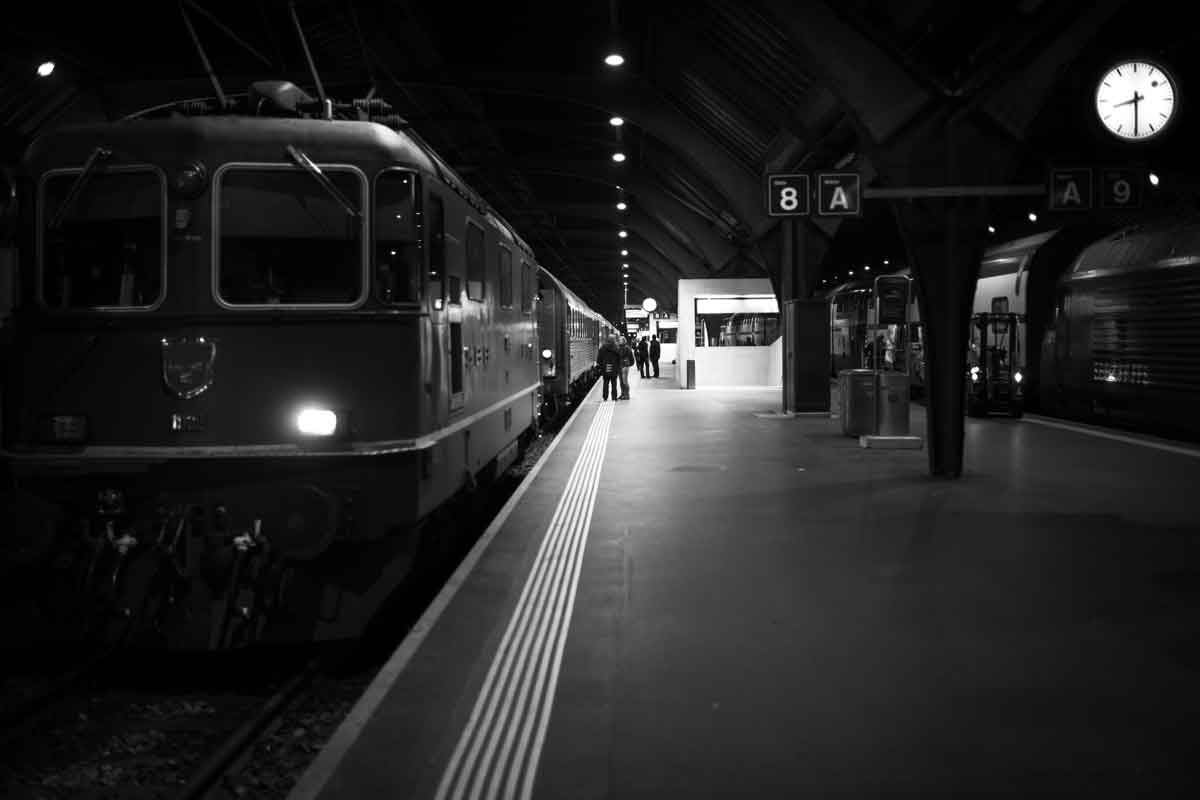
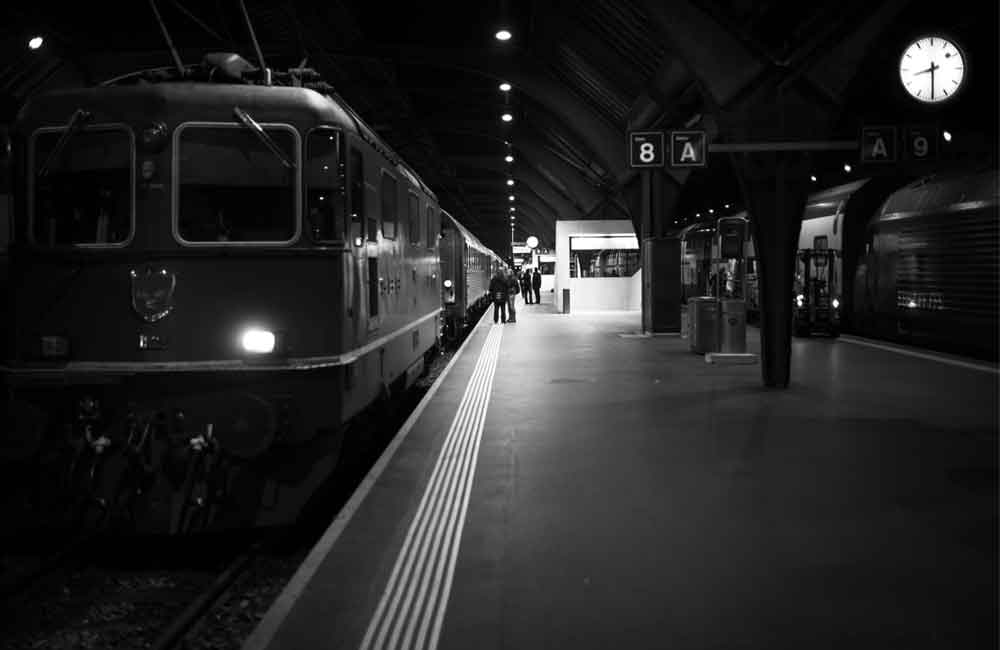
Home page images made smaller

diff --git a/sign-up.html b/sign-up.html
@@ -66,7 +66,7 @@
 
       <div>
         <label for="pass">Password</label>
-        <input  type="password" id="pass" name="password" required>
+        <input type="password" id="pass" name="password" required>
       </div>
 
       <div>
@@ -80,12 +80,12 @@
 
       <div>
         <label for="cc_first">First Name</label>
-        <input text="text" id="cc_first" name="cc_first">
+        <input type="text" id="cc_first" name="cc_first">
       </div>
 
       <div>
         <label for="cc_last">Last Name</label>
-        <input text="text" id="cc_last" name="cc_last">
+        <input type="text" id="cc_last" name="cc_last">
       </div>
       <div>
         <label for="card">Credit Card Number</label>
@@ -116,32 +116,32 @@
 
       <div>
         <label for="billing">Billing Address</label>
-        <input text="text" id="billing" name="billing">
+        <input type="text" id="billing" name="billing">
       </div>
 
       <div>
         <label for="billing-2">Billing Address 2 (optional)</label>
-        <input text="text" id="billing-2" name="billing-2">
+        <input type="text" id="billing-2" name="billing-2">
       </div>
 
       <div>
         <label for="city">City</label>
-        <input text="text" id="city" name="city">
+        <input type="text" id="city" name="city">
       </div>
 
       <div>
         <label for="province">Province/State</label>
-        <input text="text" id="province" name="province">
+        <input type="text" id="province" name="province">
       </div>
 
       <div>
         <label for="country">Country</label>
-        <input text="text" id="country" name="country">
+        <input type="text" id="country" name="country">
       </div>
 
       <div>
         <label for="code">Postal Code/Zip Code</label>
-        <input text="text" id="code" name="code">
+        <input type="text" id="code" name="code">
       </div>
     <div>
 
